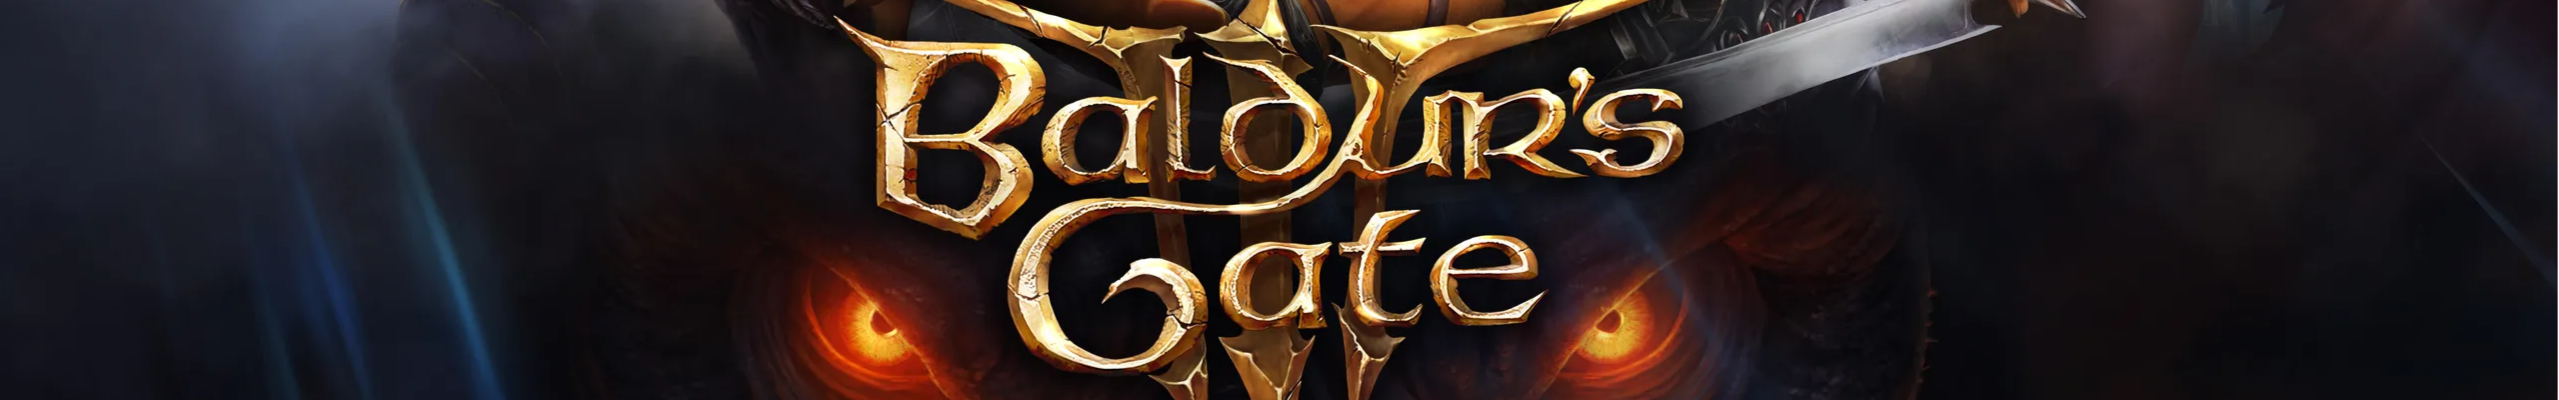
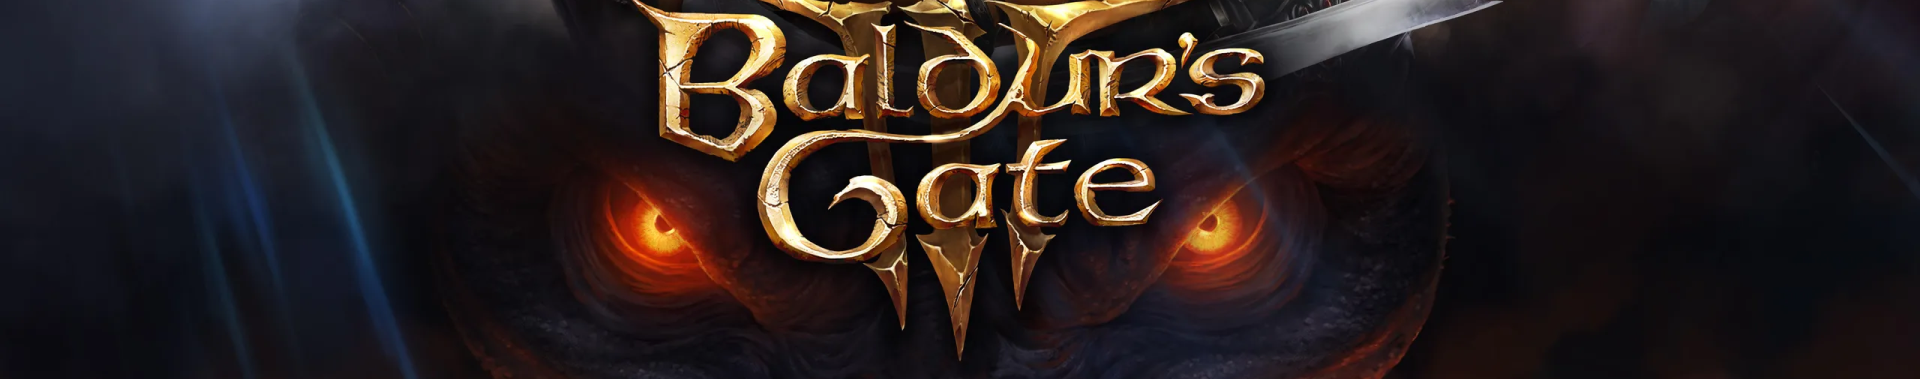
carrousel fixed

diff --git a/src/index.html b/src/index.html
@@ -53,9 +53,8 @@
             <li class="nav-item"><a class="nav-link" href="#!">All games</a></li>
           </ul>
           <div class="d-flex" style="height: 2.5rem;">
-            <input type="text" class="form-control me-md-4 me-lg-4" placeholder="Search Game" name="" id="">
-
-            <div class="d-sm-block" style="width: 10.5rem;">
+            <input type="text" class="form-control me-4 me-md-4 me-lg-4" placeholder="Search Game" name="" id="">
+            <div  style="width: 12rem;">
               <button class="btn btn-outline-light" type="button" data-bs-toggle="offcanvas" data-bs-target="#carrito"
                 aria-controls="carrito">
                 <i class="bi-cart-fill me-1"></i>
@@ -80,15 +79,18 @@
         <button type="button" data-bs-target="#carouselExampleIndicators" data-bs-slide-to="2"
           aria-label="Slide 3"></button>
       </div>
-      <div class="carousel-inner" style="height: 400px;">
-        <div class="carousel-item active ">
-          <img src="../img/carousel/BaldursGateIII.png" class="d-block w-100 object-fit-cover" alt="...">
+      <div class="carousel-inner">
+        <div class="carousel-item active "
+          style="height: 25rem; background-image: url(../img/carousel/BaldursGateIII.png); background-position: center; background-size: cover; background-repeat: no-repeat;">
+          <!-- <img src="../img/carousel/BaldursGateIII.png" class="d-block w-100 object-fit-cover" alt="..."
+            style="height: 25rem;"> -->
         </div>
         <div class="carousel-item">
-          <img src="../img/carousel/helldivers2.jpg" class="d-block w-100 " alt="...">
+          <img src="../img/carousel/helldivers2.jpg" class="d-block w-100  object-fit-cover " alt="..."
+            style="height: 25rem;">
         </div>
         <div class="carousel-item">
-          <img src="../img/carousel/rust.jpg" class="d-block w-100 object-fit-cover" alt="...">
+          <img src="../img/carousel/rust.png" class="d-block w-100 object-fit-cover" alt="..." style="height: 25rem;">
         </div>
       </div>
     </div>
@@ -134,7 +136,10 @@
           </div>
           <div class="col">
             <div class="card ">
-              <img class="card-img-top object-fit-cover" src="../img/gtav.jpg" alt="" style="height: 17rem;" />
+
+              <div class="card-img-top radius-none object-fit-contain" src="../img/gtav.jpg" alt=""
+                style="height: 17rem; background-image: url(../img/gtav.jpg); background-position: center; background-size: cover;">
+              </div>
               <div class="card-body">
                 <h5 class="card-title">Grand Theft Auto V</h5>
                 <p class="card-text text-truncate" style="max-width: 100%">

diff --git a/styles/main.css b/styles/main.css
@@ -14,28 +14,32 @@
     background-color: #1C3269;
 }
 
-.bgh-darkest-blue{
+.bgh-darkest-blue {
     background-color: #001446;
 }
 
-.card{
+.card {
     border: 0px !important;
     border-radius: 0px !important;
     box-shadow: 0px 0px 15px 1px #1C3269;
 }
 
-.card img{
+.card img {
     border-radius: 0px !important;
 }
 
-.form-control{
-    
+.form-control {
     background-color: #1C3269 !important;
     box-shadow: none !important;
     border: 1px solid white !important;
 }
 
-.form-control::placeholder{
+.form-control::placeholder {
+    color: white !important;
+    font-weight: bold;
+}
+
+.form-control:focus {
     color: white !important;
     font-weight: bold;
 }
@@ -43,7 +47,6 @@
 .th-blue {
     color: #264592;
 }
-
 
 .size-color--button {
     height: 2rem;
@@ -77,10 +80,11 @@ footer {
     background-color: #001446;
 }
 
-footer h5{
+footer h5 {
     color: white !important;
     font-weight: bold !important;
 }
+
 footer a {
     font-weight: bolder;
     color: orange !important;
